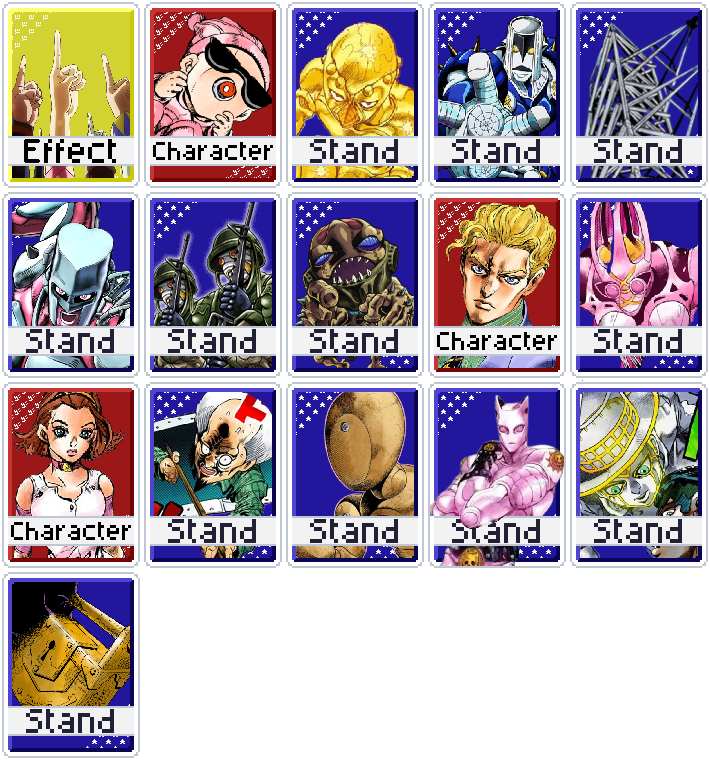
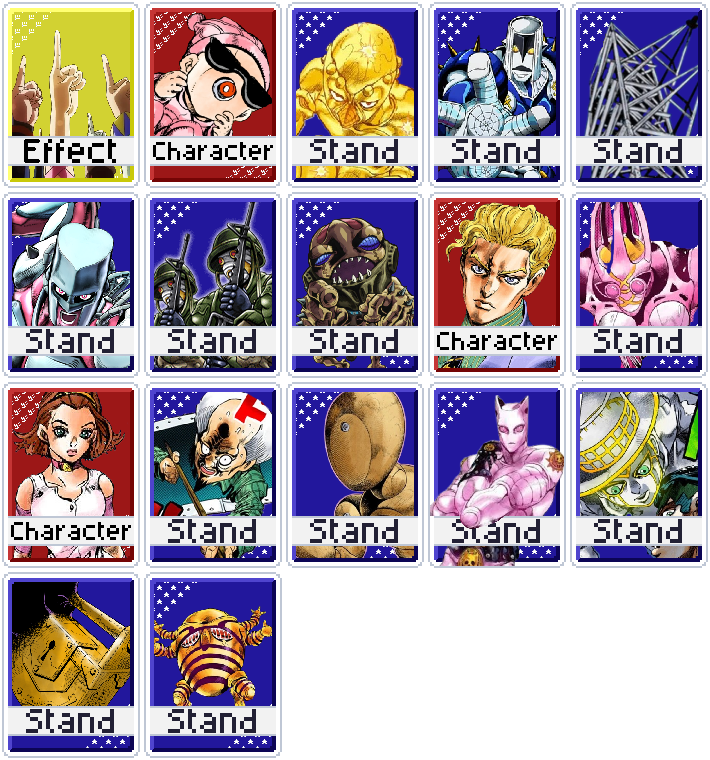
Add Harvest joker

Changed region(s): [[0.1859, 0.7566, 0.4028, 0.9987]]

diff --git a/.claude/skills/create-joker/SKILL.md b/.claude/skills/create-joker/SKILL.md
@@ -81,6 +81,17 @@ local kiss = {
 - Guard state-mutating branches with `not context.blueprint` so a copying joker cannot
   scale the original twice.
 - Use `sendDebugMessage` on branches that fire, matching the surrounding wording.
+- Never declare helper functions as locals in the joker file. Put them in
+  `functions/jokerfunctions.lua` as globals (ex. `get_harvest_payout(card)`), so the joker,
+  its JokerDisplay `calc_function`, and its tests all call the same code instead of
+  duplicating the math.
+
+### Run-wide state
+
+When the effect depends on something that happened before the joker was owned (ex.
+"retroactive to the whole run"), track it in `G.GAME.jojoker_<thing>` from the mod-level
+`SMODS.current_mod.calculate` in `jojoker.lua`, via a tracking helper in
+`functions/jokerfunctions.lua`. Treat the field as `nil` until first set.
 
 ### Events that do not exist
 
